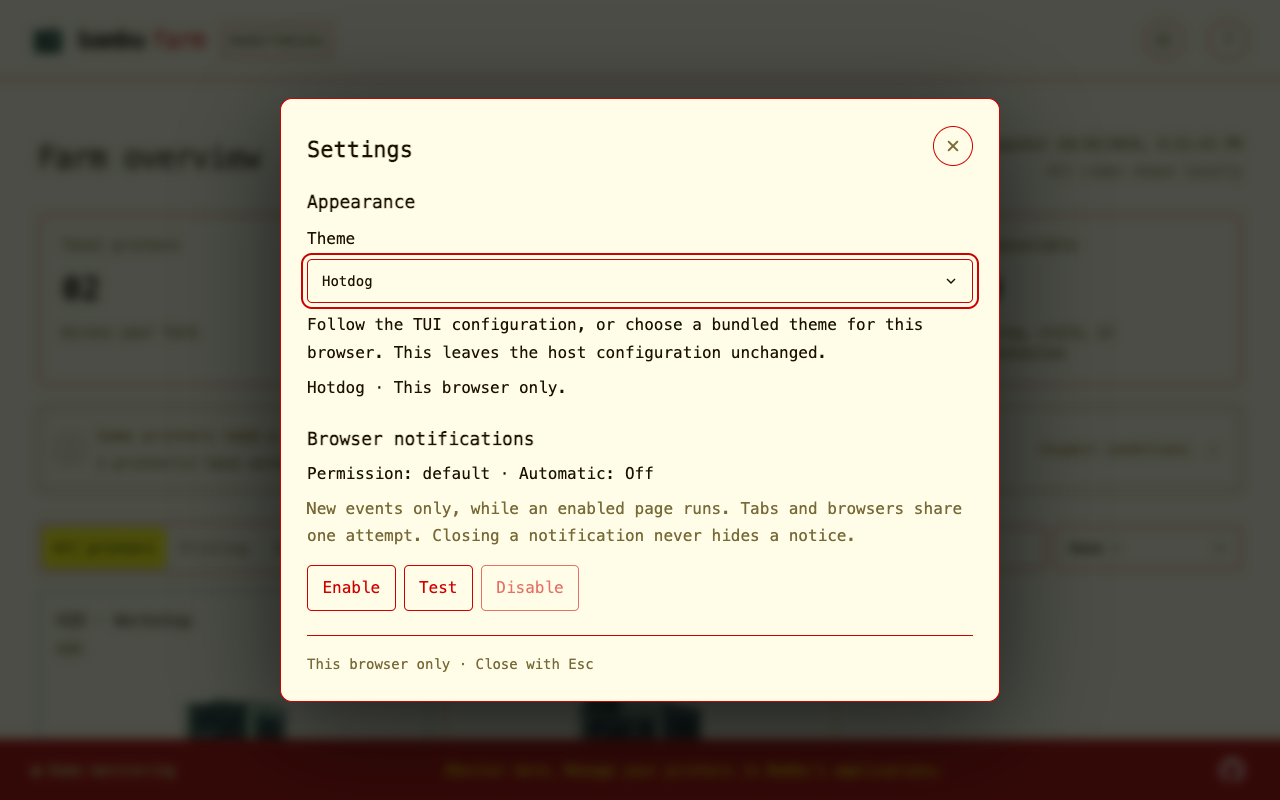
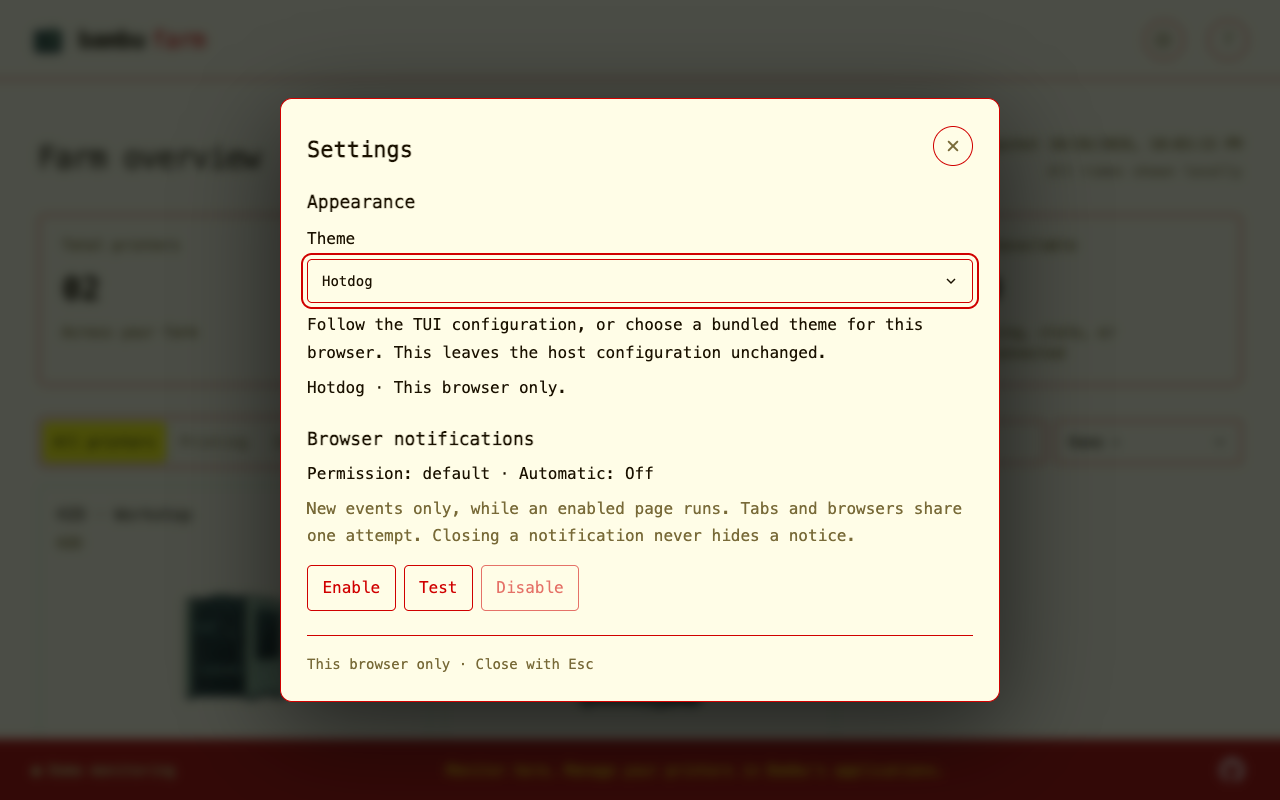
Remove redundant browser monitoring badge

diff --git a/internal/webserver/assets/style.css b/internal/webserver/assets/style.css
@@ -102,14 +102,6 @@ header {
   color: var(--green);
   font-weight: 450;
 }
-.brand small {
-  font-size: 0.875rem;
-  color: var(--muted);
-  letter-spacing: 1px;
-  border: 1px solid var(--border);
-  padding: 5px 6px;
-  margin: 3px 0 0 12px;
-}
 .header-right {
   display: flex;
   flex-wrap: wrap;
@@ -800,9 +792,6 @@ dialog p {
   }
   .brand {
     font-size: 1.375rem;
-  }
-  .brand small {
-    display: none;
   }
   .header-right {
     gap: 15px;

diff --git a/internal/webserver/assets/index.html b/internal/webserver/assets/index.html
@@ -12,7 +12,7 @@
     <header>
       <a class="brand" href="./"
         ><img src="icon.png" alt="" />bambu<span>farm</span
-        ><small>MONITORING</small></a
+        ></a
       >
       <div class="header-right">
         <button

diff --git a/docs/development/ui-direction.md b/docs/development/ui-direction.md
@@ -75,7 +75,7 @@ Map semantic RGB roles without correcting custom colors. Use the browser's dark 
 
 Keep the browser status bar in its own row at the viewport bottom, with a full-width top border matching the header divider. Let the farm workspace scroll above it and reserve the bar's actual reflowed height so cards and result metadata remain reachable. Preserve connection/demo status, the read-only monitoring message, and an accessible GitHub repository icon link at narrow widths and enlarged text sizes; dialogs retain their normal modal focus and scrolling. Reserve a usable workspace height even when the header and wrapped footer exceed the viewport budget; let the whole page scroll in short windows so filters, cards, and the footer remain reachable by keyboard and pointer.
 
-Use one primary browser filter toolbar (All printers, Printing, Idle / finished, Attention, Unavailable). Whole-farm summary totals are static; keep connection/demo status on the left of the footer and the repository link on the right. Do not reintroduce a parallel sidebar or decorative headings/counts that duplicate these controls. The Idle / finished view uses the session's current-telemetry classification, requires an available browser feed, and excludes unknown/offline/stale readings. Its count is the eligible farm subset before search, distinct from last-reported Printing totals. Retain individual Idle/Finished labels and overlapping attention; never claim physical readiness. Keep a compact result count (`3 printers` for all results, `2 of 3 printers` for a subset), snapshot metadata, and active filter pressed state. Put summary-overlap explanations in Help rather than beside the cards. If a focused card leaves the view, focus returns to the active filter.
+Use one primary browser filter toolbar (All printers, Printing, Idle / finished, Attention, Unavailable). Whole-farm summary totals are static; keep connection/demo status on the left of the footer and the repository link on the right. Keep the browser header to branding, Settings, and Help; omit the redundant MONITORING badge. Do not reintroduce a parallel sidebar or decorative headings/counts that duplicate these controls. The Idle / finished view uses the session's current-telemetry classification, requires an available browser feed, and excludes unknown/offline/stale readings. Its count is the eligible farm subset before search, distinct from last-reported Printing totals. Retain individual Idle/Finished labels and overlapping attention; never claim physical readiness. Keep a compact result count (`3 printers` for all results, `2 of 3 printers` for a subset), snapshot metadata, and active filter pressed state. Put summary-overlap explanations in Help rather than beside the cards. If a focused card leaves the view, focus returns to the active filter.
 
 Scope unavailable-card readings with one explicit last-known/current-state-unconfirmed warning rather than repeating a prefix on each metric. Preserve unknown values, independently last-known ETA labels, and attention warnings even when telemetry is also unavailable. Wrap material labels and keep full job/telemetry details accessible. Artwork is decorative and needs no normal monitoring stamp.
 

diff --git a/docs/development/validation.md b/docs/development/validation.md
@@ -13,7 +13,7 @@ Synthetic Go coverage checks complete bundled role parity, custom-file inheritan
 
 All 28 theme/layout combinations passed: Follow host plus default, Gruvbox Dark, Hotdog, C64, IBM 3270, and DeskMate at 1280 × 800 and 390 × 844 with default text, and 320 × 568 and 568 × 320 with 200% root text. Fixtures include current and unavailable/attention cards, a synthetic intervention condition, Settings, and printer inspection. Checks cover exact role values, native form scheme, bundled primary/selected/warning/footer/dialog-hint contrast, modal/workspace overflow, focus return, persistent selection, and connected image continuity. Representative desktop light/dark, mobile DeskMate, narrow enlarged C64, and short enlarged IBM 3270 captures were inspected. The existing 30 empty/single/24-printer Chromium layout combinations also passed at the sizes documented in the browser-dashboard-cleanup evidence below.
 
-Documentation/formatting checks, pinned Go and workflow lint, the full Go race/PTY suite, vet, native build, and all 36 browser interaction tests passed. The Appearance screenshot in the user guide uses synthetic demo data.
+Documentation/formatting checks, pinned Go and workflow lint, the full Go race/PTY suite, vet, native build, and all 36 browser interaction tests passed. The redundant MONITORING header badge was removed, leaving branding, Settings, and Help. The Appearance screenshot was refreshed with synthetic demo data; all 36 interaction tests and all 30 dashboard layout cases passed again, including the badge-absence assertion. The sort-chevron layout check now explicitly targets the toolbar control because Appearance reuses its select styling.
 
 Custom colors are used without contrast correction; null/inherited backgrounds use the documented dark browser canvas. Safari, Firefox, actual mobile devices, physical terminal/font appearance, and live account/printer/OS notification behavior were not newly validated. These runs use synthetic demo data and do not close #23 or #38.
 
